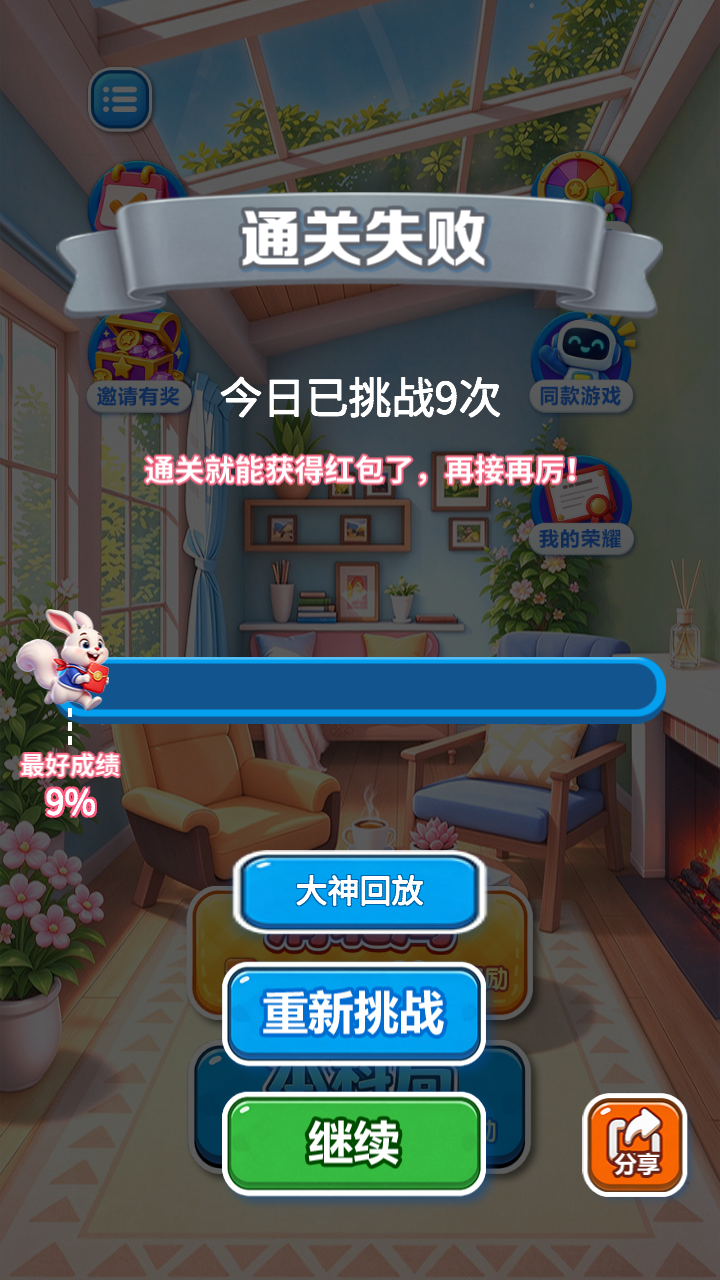
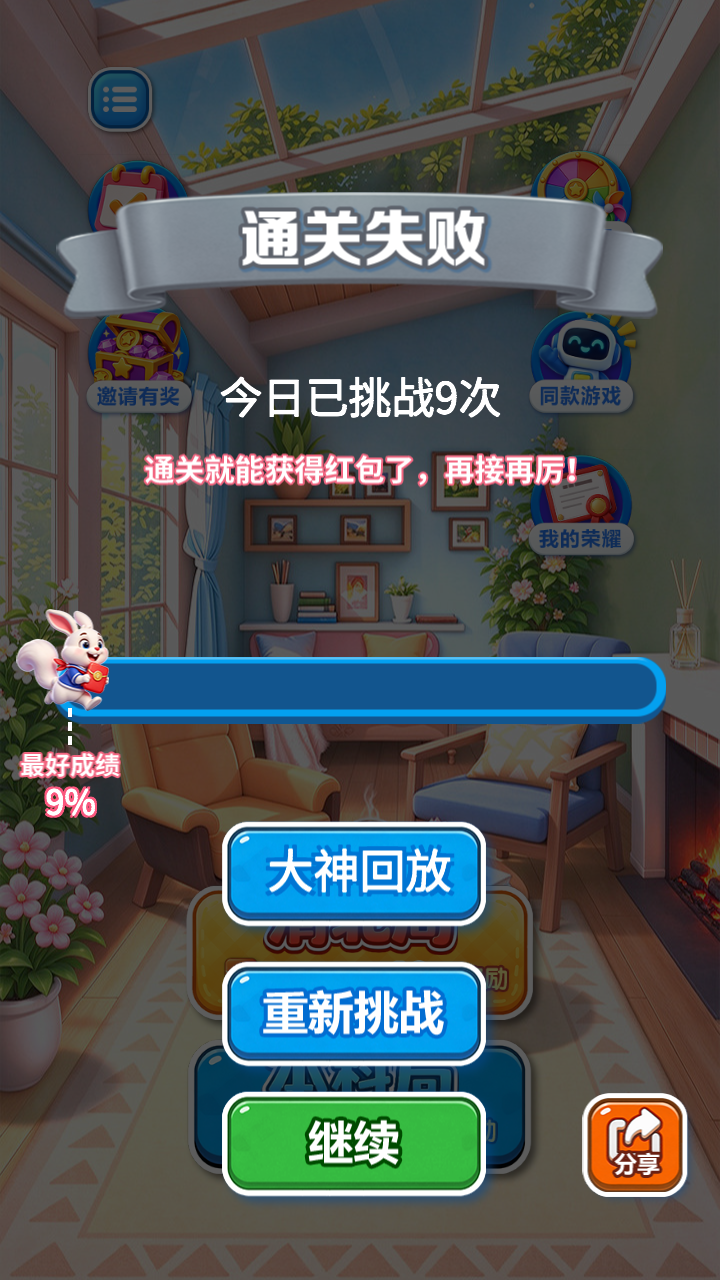
fix: match master replay entry to retry button styling

Changed region(s): [[0.3056, 0.625, 0.7028, 0.75]]

diff --git a/Assets/Match3D/Scripts/PotMasterReplayEntry.cs b/Assets/Match3D/Scripts/PotMasterReplayEntry.cs
@@ -6,9 +6,17 @@ public sealed class PotMasterReplayEntry : MonoBehaviour {
     Button button;Match3DResultView result;string owner,date;bool refreshing;float next;
     public void Configure(Match3DResultView view){
         result=view;var retry=(RectTransform)view.primary.transform;
-        button=PotMasterReplayView.MakeButton(retry.parent,"Pot master replay entry","大神回放",0,0,282,100,32);
+        var root=PotMasterReplayView.Rect(retry.parent,"Pot master replay entry",0,0,retry.rect.width,retry.rect.height);
+        var background=root.gameObject.AddComponent<Image>();
+        background.sprite=Resources.Load<Sprite>("Match3D/RewardSkinPS/image_btn_blue02");
+        button=root.gameObject.AddComponent<Button>();button.targetGraphic=background;button.transition=view.primary.transition;button.colors=view.primary.colors;
+        button.navigation=new Navigation{mode=Navigation.Mode.None};
+        // Same original blue artwork and 46px bold lettering as the authored retry button.
+        var label=PotMasterReplayView.Label(root,"Label","大神回放",0,0,retry.rect.width,104,46);
+        label.color=Color.white;label.alignByGeometry=true;
+        var outline=label.gameObject.AddComponent<Outline>();outline.effectColor=new Color32(0,117,211,255);outline.effectDistance=new Vector2(4,-4);
         var rect=(RectTransform)button.transform;rect.anchorMin=retry.anchorMin;rect.anchorMax=retry.anchorMax;rect.pivot=retry.pivot;
-        rect.anchoredPosition=retry.anchoredPosition+new Vector2(0,120);
+        rect.anchoredPosition=retry.anchoredPosition+new Vector2(0,140);
         button.onClick.AddListener(()=>{if(owner==PotMasterReplayAccess.Account()&&date==Match3DFlow.Today){Match3DFlow.Instance.HomeClick();Match3DFlow.Instance.ShowPotMasterReplays(result);}});
         Render(false);
     }

diff --git a/docs/validation/pot-master-replay/README.md b/docs/validation/pot-master-replay/README.md
@@ -31,3 +31,5 @@
 ## 入口位置纠正
 
 用户明确入口应位于失败后的重新挑战按钮上方。入口与重新挑战之间保留间距，入口显示时进度轨道及最高进度标记整体上移 90，入口隐藏时还原。打开列表后未播放直接关闭，恢复同一个失败弹窗，保留原重新挑战回调。
+
+失败页入口复用已有 `RewardSkinPS/image_btn_blue02` 原稿底图，与「重新挑战」同为 282×123；文字使用 46 号白色粗体、4 像素蓝色描边，并按按钮面居中。入口中心在重新挑战上方 140，保留按钮间距。已重新截图和通过完整集成验证。
